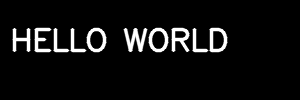
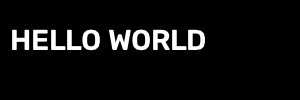
Updated project files

Changed region(s): [[0.03, 0.27, 0.78, 0.54]]

diff --git a/backend/ocr_service/test_patch.py b/backend/ocr_service/test_patch.py
@@ -1,0 +1,26 @@
+import paddle
+import logging
+
+try:
+    if hasattr(paddle, 'inference') and hasattr(paddle.inference, 'Config'):
+        if not hasattr(paddle.inference.Config, 'set_optimization_level'):
+            print("Monkey patching paddle.inference.Config.set_optimization_level")
+            paddle.inference.Config.set_optimization_level = lambda self, x: None
+            
+    if hasattr(paddle, 'base') and hasattr(paddle.base, 'libpaddle') and hasattr(paddle.base.libpaddle, 'AnalysisConfig'):
+        if not hasattr(paddle.base.libpaddle.AnalysisConfig, 'set_optimization_level'):
+            print("Monkey patching AnalysisConfig")
+            paddle.base.libpaddle.AnalysisConfig.set_optimization_level = lambda self, x: None
+except Exception as e:
+    print("Patch failed", e)
+
+from services.ocr_service import _ocr_image_elements
+import cv2
+import numpy as np
+
+img = np.zeros((100, 300, 3), dtype=np.uint8)
+cv2.putText(img, 'TEST', (10, 50), cv2.FONT_HERSHEY_SIMPLEX, 1, (255, 255, 255), 2, cv2.LINE_AA)
+cv2.imwrite("dummy.png", img)
+print("Dummy created")
+res = _ocr_image_elements("dummy.png")
+print("SUCCESS!")
